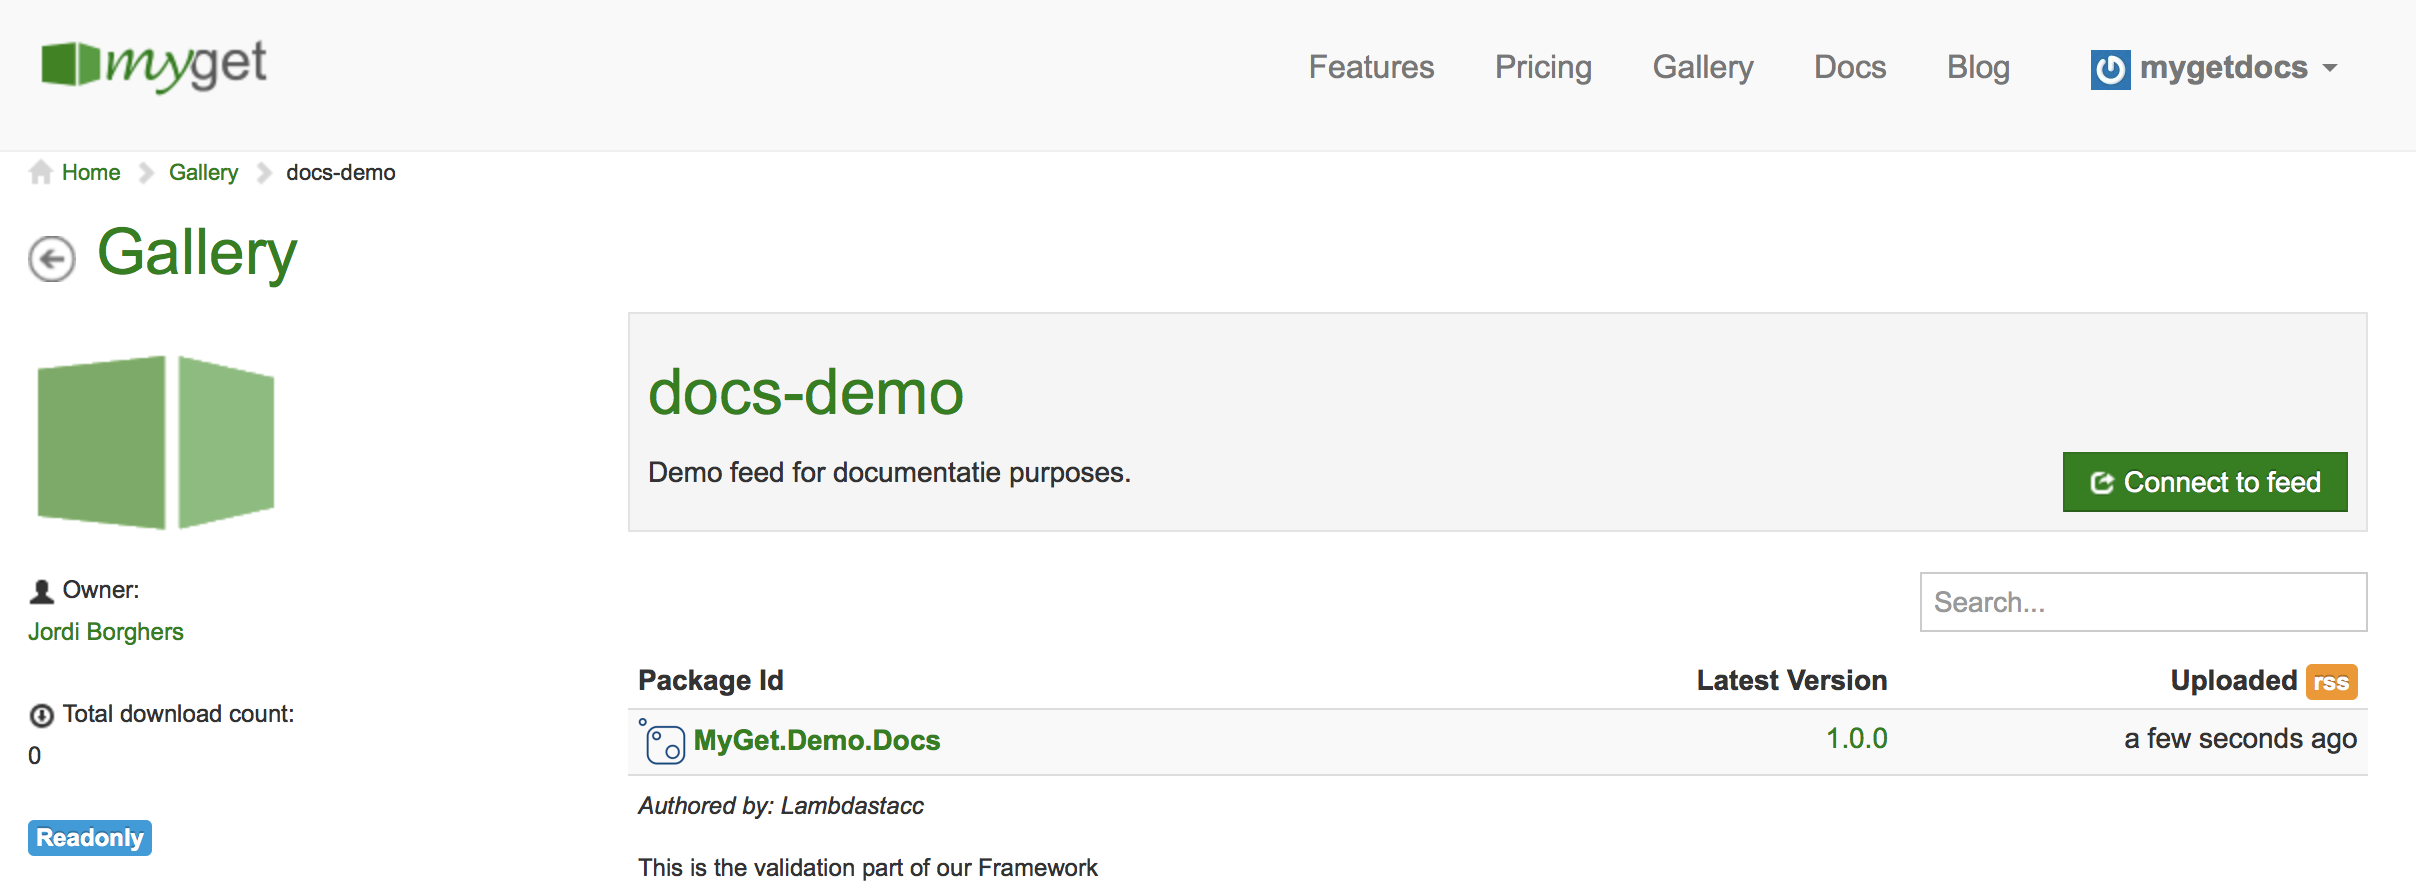
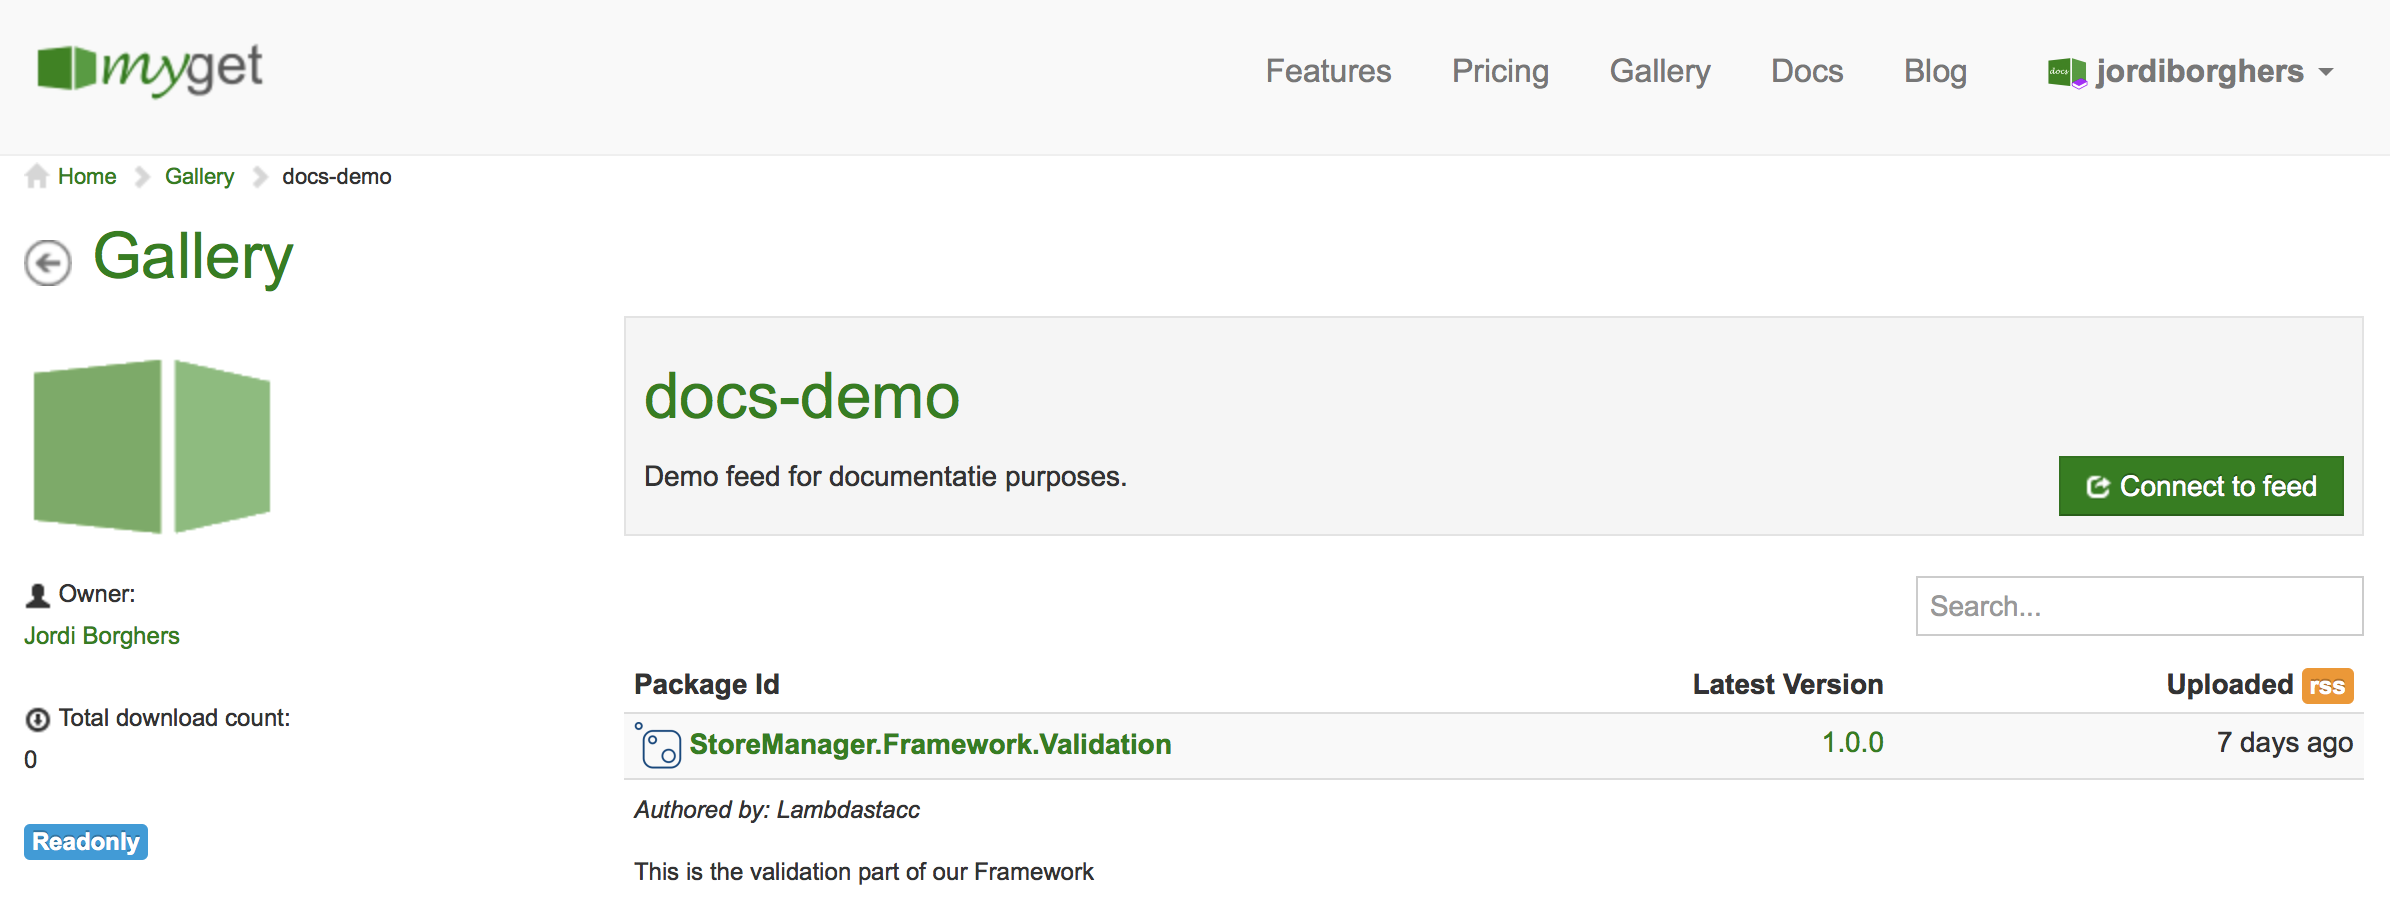
DOCS-41 Implemented extra comments on PR
Switched order to start with private feeds.
Changed 'Hints' to HTML 'Tip'.
Updated content.
Replace poourshell with powershell.
Replaced galery feed image

diff --git a/package-managers/nuget.md b/package-managers/nuget.md
@@ -10,21 +10,23 @@ public feed, private feed with basic auth, pre-authenticated feed URL
 
 #### Private feed
 
-Private feeds are only accessible to the feed owner, and to whomever the feed owner granted sufficient privileges. When we need to connect to a private feed we don't own, we may need to ask the feed owner to invite us to the feed.
+Private feeds are only accessible to the feed owner, and to other users who were granted access by the feed owner. When we need to connect to a private feed we don't own, we may need to ask the feed owner to invite us to the feed.
 
-> ### Hint
-> We can find out how to invite users [here](../inviting-users-to-a-feed.md)
+<p class="alert alert-success">
+    <strong>Tip:</strong> We can find out how to invite users <a href="../inviting-users-to-a-feed.md">here</a>
+</p>
 
 ![Feed details](assets/feed-details.png)
 
-> ### Hint
-> We support [Visual Studio](#visual-studio), [JetBrains Rider](#jetbrains-rider), the [NuGet CLI](#nuget-cli), [dotnet CLI](#dotnet-cli) and [Paket](#paket).
+<p class="alert alert-success">
+    <strong>Tip:</strong> We support <a href="#visualstudio">Visual Studio</a>, <a href="#rider">JetBrains Rider</a>, the <a href="#nugetcli">NuGet CLI</a>, <a href="#dotnetcli">dotnet CLI</a> and <a href="#paket">Paket</a>
+</p>
 
 #### Public feed
 
-There are two types of public feeds we can connect to. A public feed we own and one from the gallery. The only real difference here, is where to find the URL of the feed.
+There are two types of public feeds we can connect to: public feeds we own, or a feed we want to consume from the gallery. The only real difference is where to find the URL of the feed.
 
-MyGet feeds have multiple endpoints, and each one is specific to a particular package type and protocol. Pick the NuGet endpoint URL that matches the protocol version you want to use (e.g. NuGet v3), and use that to configure the feed endpoint in your favorite NuGet client.
+MyGet feeds have multiple endpoints, and each one is specific to a particular package type and protocol. Pick the NuGet endpoint URL that matches the protocol version you want to use (e.g. NuGet v3), and use that to configure the feed endpoint in your favorite NuGet client. Let's go over how to connect to these.
 
 #### Gallery feed
 
@@ -35,7 +37,7 @@ After browsing the list of feeds on the [MyGet Gallery](https://myget.org/galler
 
 We will need the NuGet V3 URL, so let's copy it for later use.
 
-### Visual Studio
+### Visual Studio <a id="visualstudio"></a>
 
 #### Public feed
 
@@ -47,7 +49,7 @@ If we don't know where to find our feed URL check the [Find our feed URL](#find-
 
 inspiration: http://docs.myget.org/docs/reference/credential-provider-for-visual-studio but needs to be nicer
 
-### JetBrains Rider
+### JetBrains Rider <a id="rider"></a>
 
 #### Public feed
 
@@ -55,7 +57,7 @@ If we don't know where to find our feed URL check the [Find our feed URL](#find-
 
 #### Private feed
 
-### NuGet CLI
+### NuGet CLI <a id="nugetcli"></a>
 
 #### Public feed
 
@@ -71,16 +73,15 @@ could have links to the NuGet documentation
 
 ## Troubleshooting
 
-
 ### Package not found during package restore
 
 When working with our own feed, whether private or public, chances are we want to consume more than just that feed. When using our MyGet feed and the NuGet.org feed simultaneously, an interesting error may occur during package restore.
 
-   Unable to find version xxxx of package yyyy
+> Unable to find version xxxx of package yyyy
 
-The reason this happens is because the NuGet command line, the NuGet Visual Studio Extension and the NuGet PoourShell Console all have a configuration option specifying which package source to install from. When this setting is changed to one specific feed, other feeds will be ignored and the error above will be shown during package restore.
+The reason this happens is because the NuGet command line, the NuGet Visual Studio Extension and the NuGet Powershell Console all have a configuration option specifying which package source to install from. When this setting is changed to one specific feed, other feeds will be ignored and the error above will be shown during package restore.
 
-The solution is very simple: we can set the active package source to aggregate in Visual Studio, or simply configure NuGet to always use the aggregate package source for the current project. NuGet has an inheritance system for NuGet.config files, where the NuGet.config file closest to the solution file gets the last say. If we add the following NuGet.config file next to the solution file for our project, we should be fine:
+The solution is very simple: we can set the active package source to "aggregate" in Visual Studio, or simply configure NuGet to always use the "aggregate source" for the current project. NuGet has an inheritance system for NuGet.config files, where the NuGet.config file closest to the solution file gets the last say. If we add the following NuGet.config file next to the solution file for our project, we should be fine:
 
 ```xml
   <?xml version="1.0" encoding="utf-8"?>
@@ -91,7 +92,7 @@ The solution is very simple: we can set the active package source to aggregate i
     </configuration>
 ```
 
-We can take this one step further and instead of configuring our MyGet feed globally for our system (and requiring other devs on our team to do the same), why not distribute a NuGet.config along with the sources?
+We can take this one step further and instead of configuring our MyGet feed globally for our system (and requiring other devs on our team to do the same), why not distribute a NuGet.config along with the sources? We can place a `NuGet.config` file right next to our `.sln` file for NuGet to pick it up.
 
 ```xml
   <?xml version="1.0" encoding="utf-8"?>
